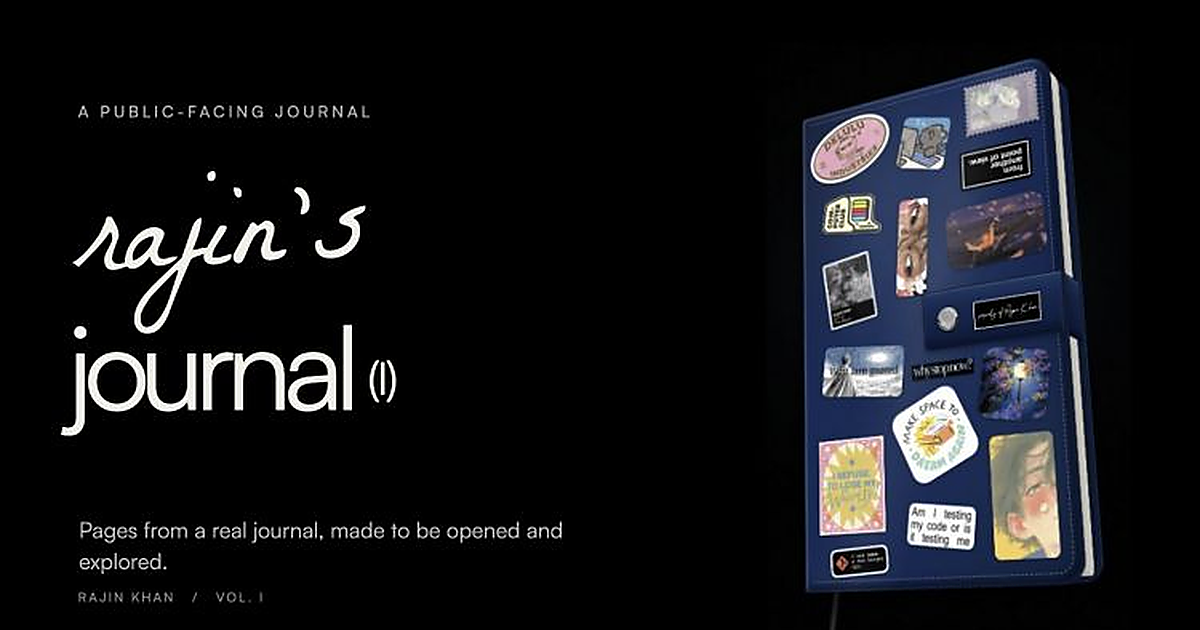
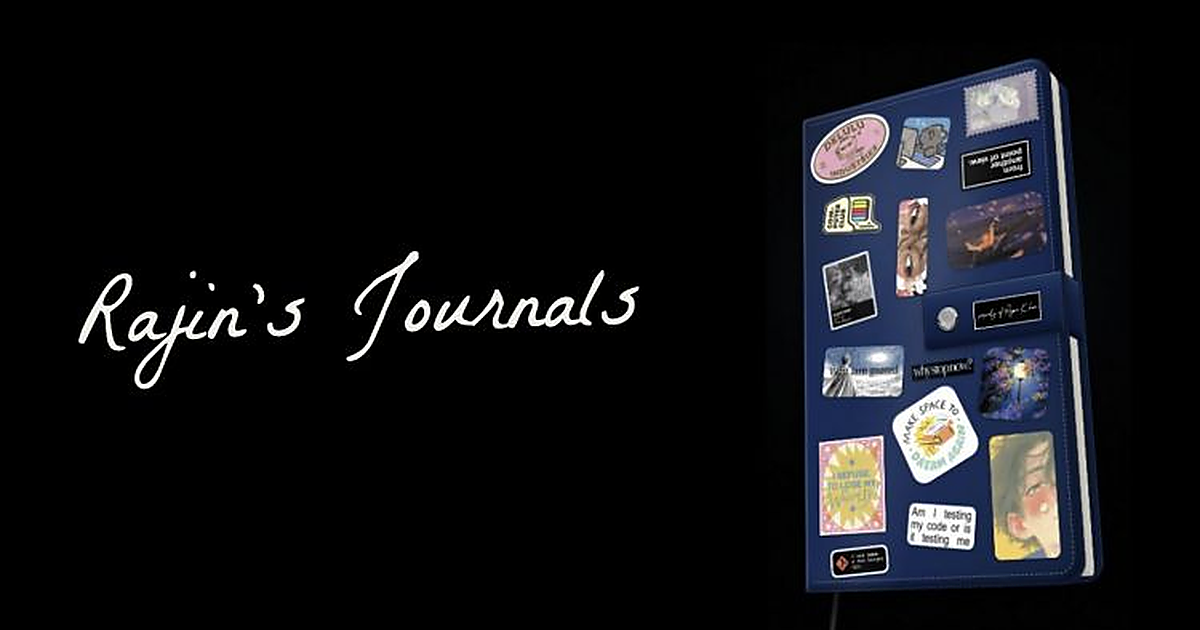
simplify og image

diff --git a/og-image.html b/og-image.html
@@ -4,31 +4,20 @@
     <meta charset="utf-8" />
     <meta name="viewport" content="width=device-width, initial-scale=1" />
     <meta name="robots" content="noindex, nofollow" />
-    <title>rajin's journal (I) — social image</title>
+    <title>Rajin's Journals — social image</title>
     <style>
-      @font-face { font-family: Satoshi; src: url('./assets/fonts/satoshi-400.woff2') format('woff2'); font-weight: 400; }
-      @font-face { font-family: Satoshi; src: url('./assets/fonts/satoshi-500.woff2') format('woff2'); font-weight: 500; }
       @font-face { font-family: 'La Belle Aurore'; src: url('./assets/fonts/la-belle-aurore-latin.woff2') format('woff2'); }
       * { box-sizing: border-box; }
       html, body { width: 1200px; height: 630px; margin: 0; overflow: hidden; }
-      body { background: #000; color: #f1eee8; font-family: Satoshi, sans-serif; }
+      body { background: #000; color: #f1eee8; }
       main { position: relative; width: 1200px; height: 630px; overflow: hidden; }
-      .eyebrow { position: absolute; top: 70px; left: 78px; margin: 0; color: #989b9c; font-size: 16px; font-weight: 500; letter-spacing: .22em; text-transform: uppercase; }
-      h1 { position: absolute; top: 163px; left: 68px; margin: 0; font-weight: 400; line-height: .88; }
-      h1 .hand { display: block; margin-left: 9px; font-family: 'La Belle Aurore', cursive; font-size: 118px; transform: rotate(-3deg); }
-      h1 .solid { display: inline-block; margin-top: 17px; font-size: 116px; letter-spacing: -.075em; }
-      h1 .volume { display: inline-block; margin-left: 16px; font-size: 45px; letter-spacing: -.04em; vertical-align: 15px; }
-      .description { position: absolute; top: 484px; left: 79px; width: 540px; margin: 0; color: #aaaeb1; font-size: 22px; line-height: 1.4; }
+      h1 { position: absolute; top: 247px; left: 77px; margin: 0; font-family: 'La Belle Aurore', cursive; font-size: 86px; font-weight: 400; line-height: 1; white-space: nowrap; transform: rotate(-2deg); }
       .book { position: absolute; top: 11px; right: 69px; width: 365px; height: auto; }
-      .edge { position: absolute; left: 78px; bottom: 54px; color: #787e83; font-size: 13px; font-weight: 500; letter-spacing: .16em; text-transform: uppercase; }
     </style>
   </head>
   <body>
     <main>
-      <p class="eyebrow">A PUBLIC-FACING JOURNAL</p>
-      <h1><span class="hand">rajin's</span><span class="solid">journal</span><span class="volume">(I)</span></h1>
-      <p class="description">Pages from a real journal, made to be opened and explored.</p>
-      <span class="edge">RAJIN KHAN&nbsp;&nbsp; / &nbsp;&nbsp;VOL. I</span>
+      <h1>Rajin's Journals</h1>
       <img class="book" src="./assets/og-journal.jpg" alt="A navy leather journal covered in stickers" />
     </main>
   </body>

diff --git a/index.html b/index.html
@@ -21,12 +21,12 @@
     <meta property="og:image:type" content="image/png" />
     <meta property="og:image:width" content="1200" />
     <meta property="og:image:height" content="630" />
-    <meta property="og:image:alt" content="Rajin's sticker-covered navy leather journal beside the title rajin's journal (I)" />
+    <meta property="og:image:alt" content="Rajin's Journals in handwritten lettering beside a sticker-covered navy leather journal" />
     <meta name="twitter:card" content="summary_large_image" />
     <meta name="twitter:title" content="rajin's journal (I)" />
     <meta name="twitter:description" content="Explore Rajin's public-facing leather journal in 3D. Open the cover and turn through its pages." />
     <meta name="twitter:image" content="https://journals.rajinkhan.com/og-image.png" />
-    <meta name="twitter:image:alt" content="Rajin's sticker-covered navy leather journal beside the title rajin's journal (I)" />
+    <meta name="twitter:image:alt" content="Rajin's Journals in handwritten lettering beside a sticker-covered navy leather journal" />
     <link rel="stylesheet" href="./styles.css?v=23" />
   </head>
   <body>
